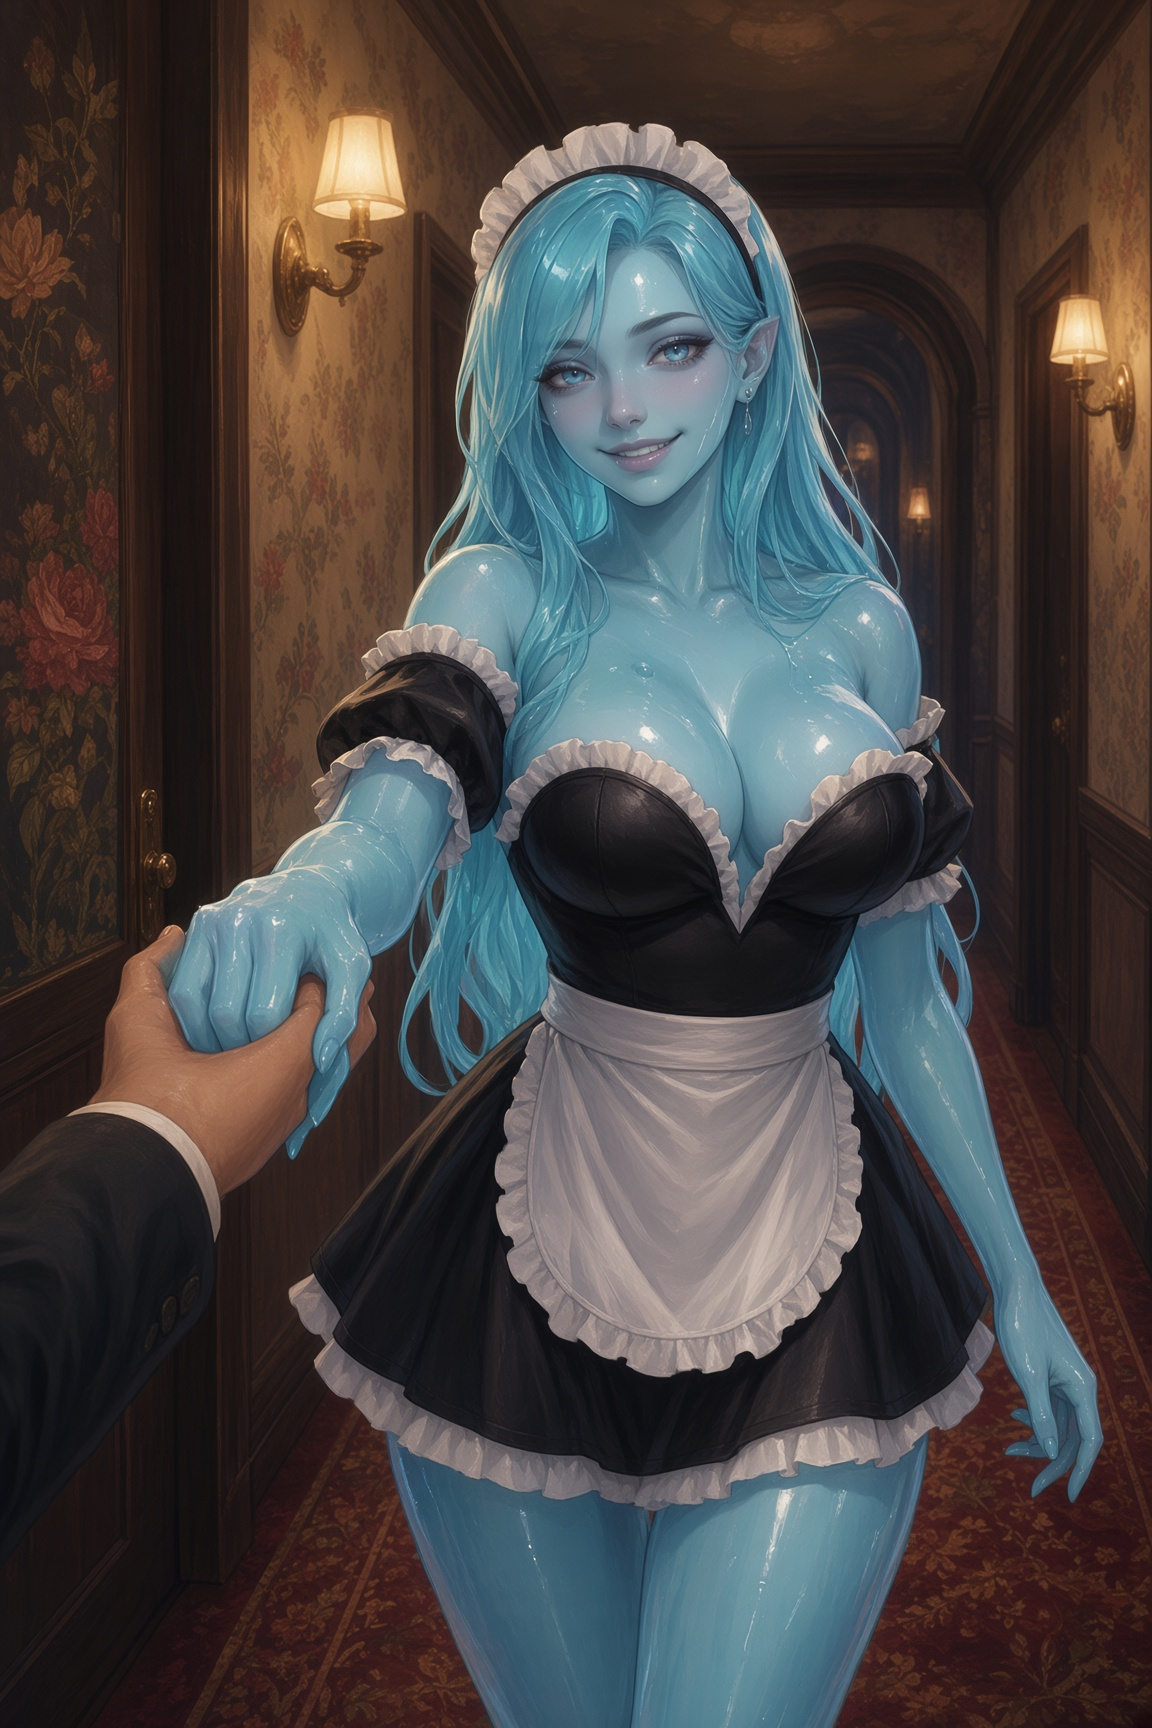
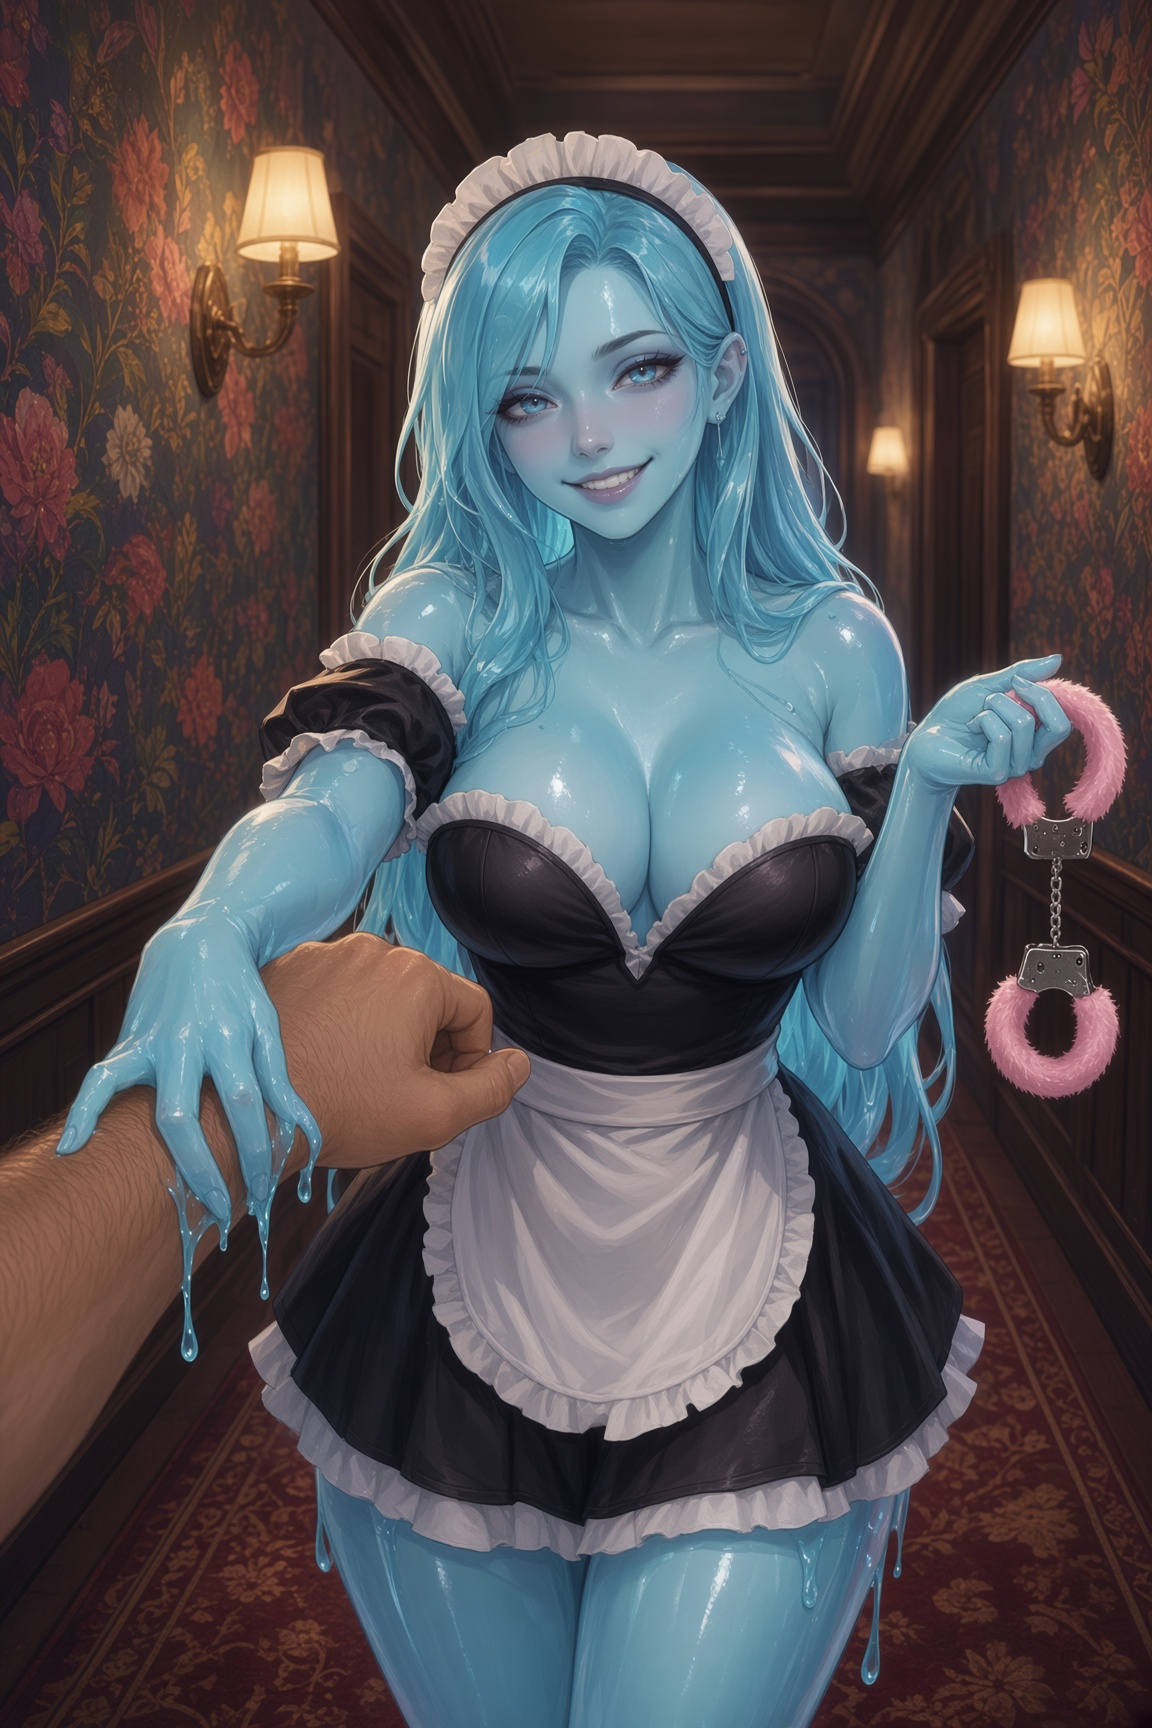
Opening: Trudie portrait with no TAPPED, cleaner wrist grab, boots not the window

diff --git a/hotel/game.js b/hotel/game.js
@@ -163,7 +163,7 @@ The lobby's already trying to do what now?`,
     choices: [
       go("d2_open", "Yank it open"),
       go("d2_listen", "Keep it shut. Listen first."),
-      go("d2_window", "The sash. Out.")
+      go("d2_boots", "Find your boots first.")
     ]
   });
   add({
@@ -193,17 +193,20 @@ And there she was. Young woman in an unnecessarily slutty maid outfit, name tag 
     choices: () => hallAct().map((c) => ({ ...c, set: { heardBridie: true }, journal: 1 }))
   });
   add({
-    id: "d2_window",
-    location: "Courtyard",
-    art: "/art/courtyard.jpg",
+    id: "d2_boots",
+    location: "Room 204",
+    art: "/art/trudie-door.jpg",
+    portrait: "/art/trudie.jpg",
     speaker: "jack",
     time: "morning",
-    text: `The sash stuck, then gave, the way a sash does when nobody's planed three millimeters off the bottom in about forty years. I dropped into a courtyard that smelled of wet stone and something sweeter, like fruit left too long. The fountain in the middle was dry as a lie. I got four steps toward what I hoped was a front door.
+    text: `I went looking for my boots, because I am a grown man and I was not going out there in my socks.
 
-"JACK CAUSEY you complete menace!"
+I didn't find them.
 
-She'd poured out after me. Young woman, unnecessarily slutty maid outfit, blue-green hair, all the piercings in the world, a filthy grin, and a crooked name tag on the left of an enormous pair of tits that said Trudie Crisp. Slightly see-through. Slightly tacky. She grabbed my wet wrist and started hauling me toward the front door like this was a perfectly normal way to start a Tuesday.`,
-    choices: () => hallAct().map((c) => ({ ...c, set: { arrivedWet: true }, journal: 1 }))
+The door opened anyway. Young woman in an unnecessarily slutty maid outfit, name tag on the left of an enormous pair of tits that said Trudie Crisp, blue-green hair, filthy grin, and one slightly tacky hand already around my wrist.
+
+"Slowpoke," she said. "Brig's going mental." She started walking. Bare feet on the carpet would have to do.`,
+    choices: hallAct
   });
   add({
     id: "d_hall_listen",

diff --git a/hotel/index.html b/hotel/index.html
@@ -185,7 +185,7 @@
       </div>
     </div>
 
-    <script src="./game.js?v=arc1e"></script>
+    <script src="./game.js?v=arc1f"></script>
     <script>
       const ART = ".";
       const KEY = "sans-nuit-arc1";
